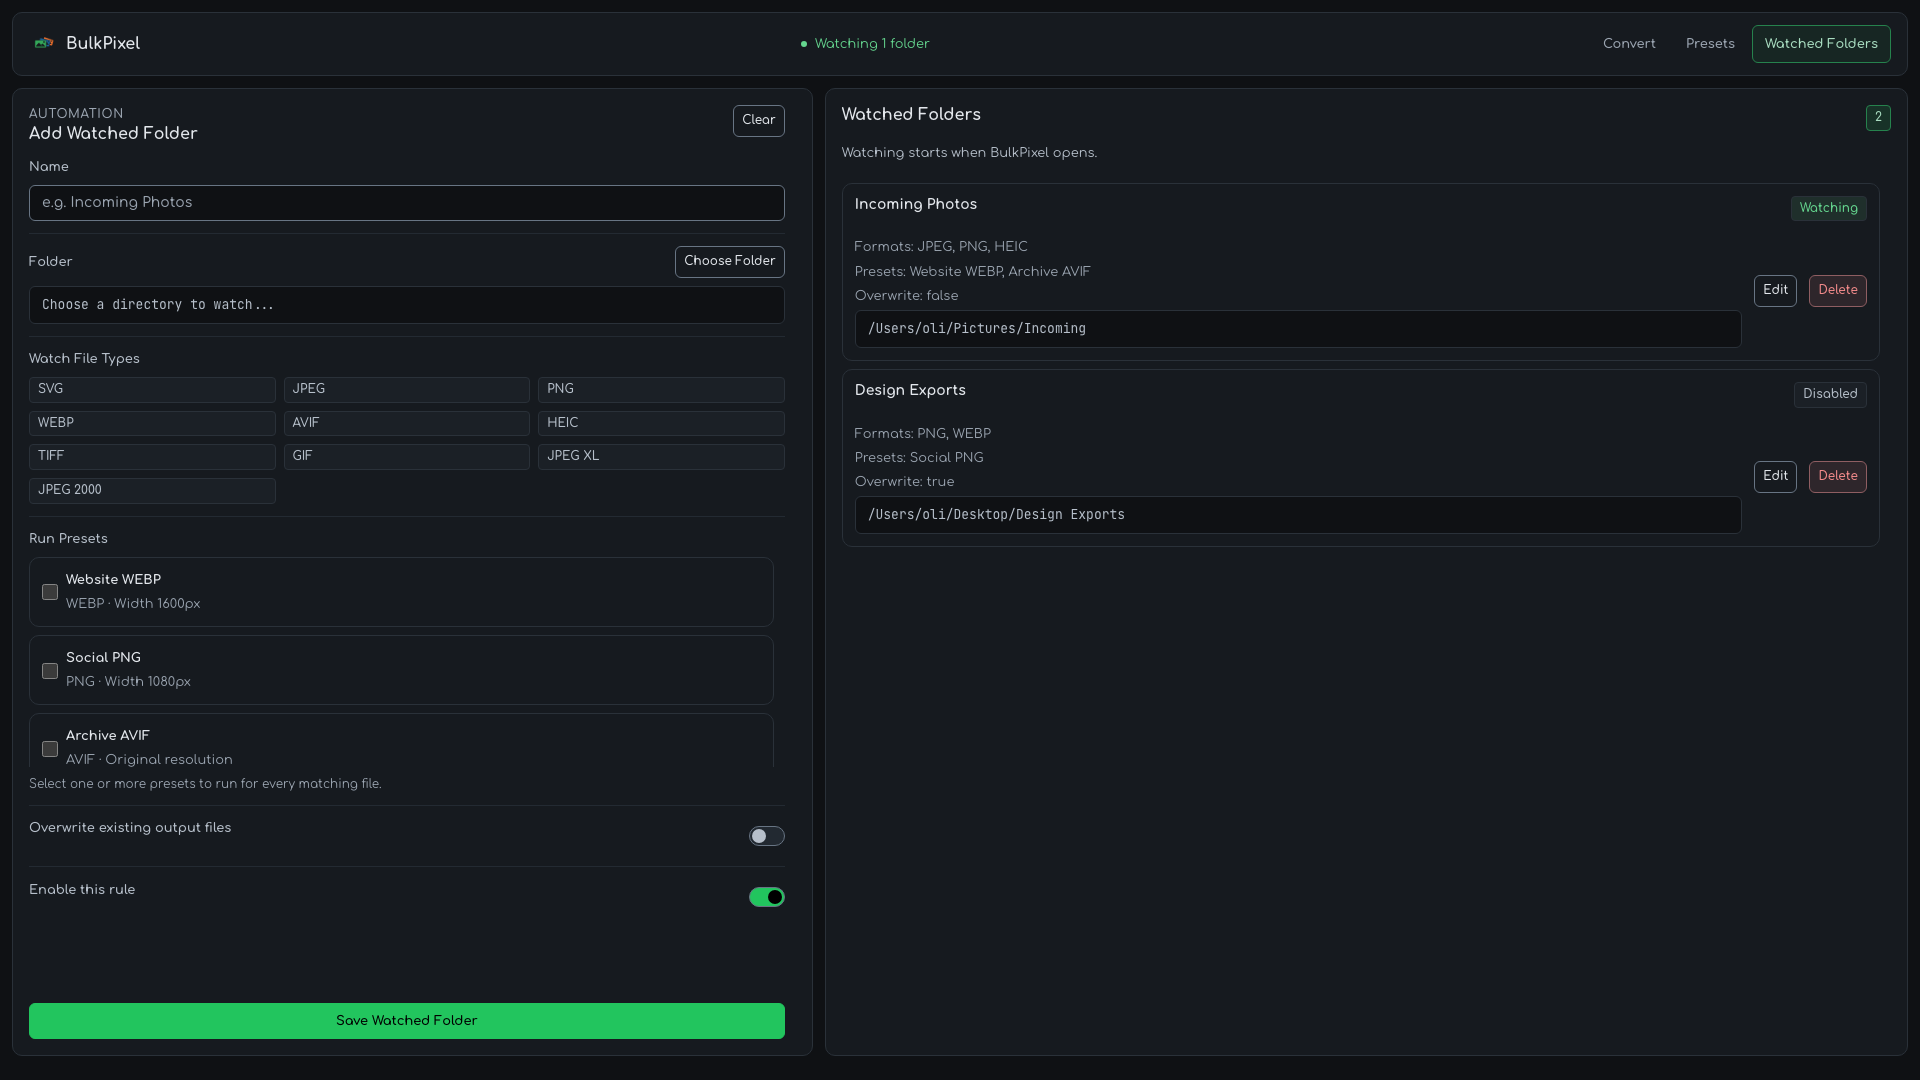
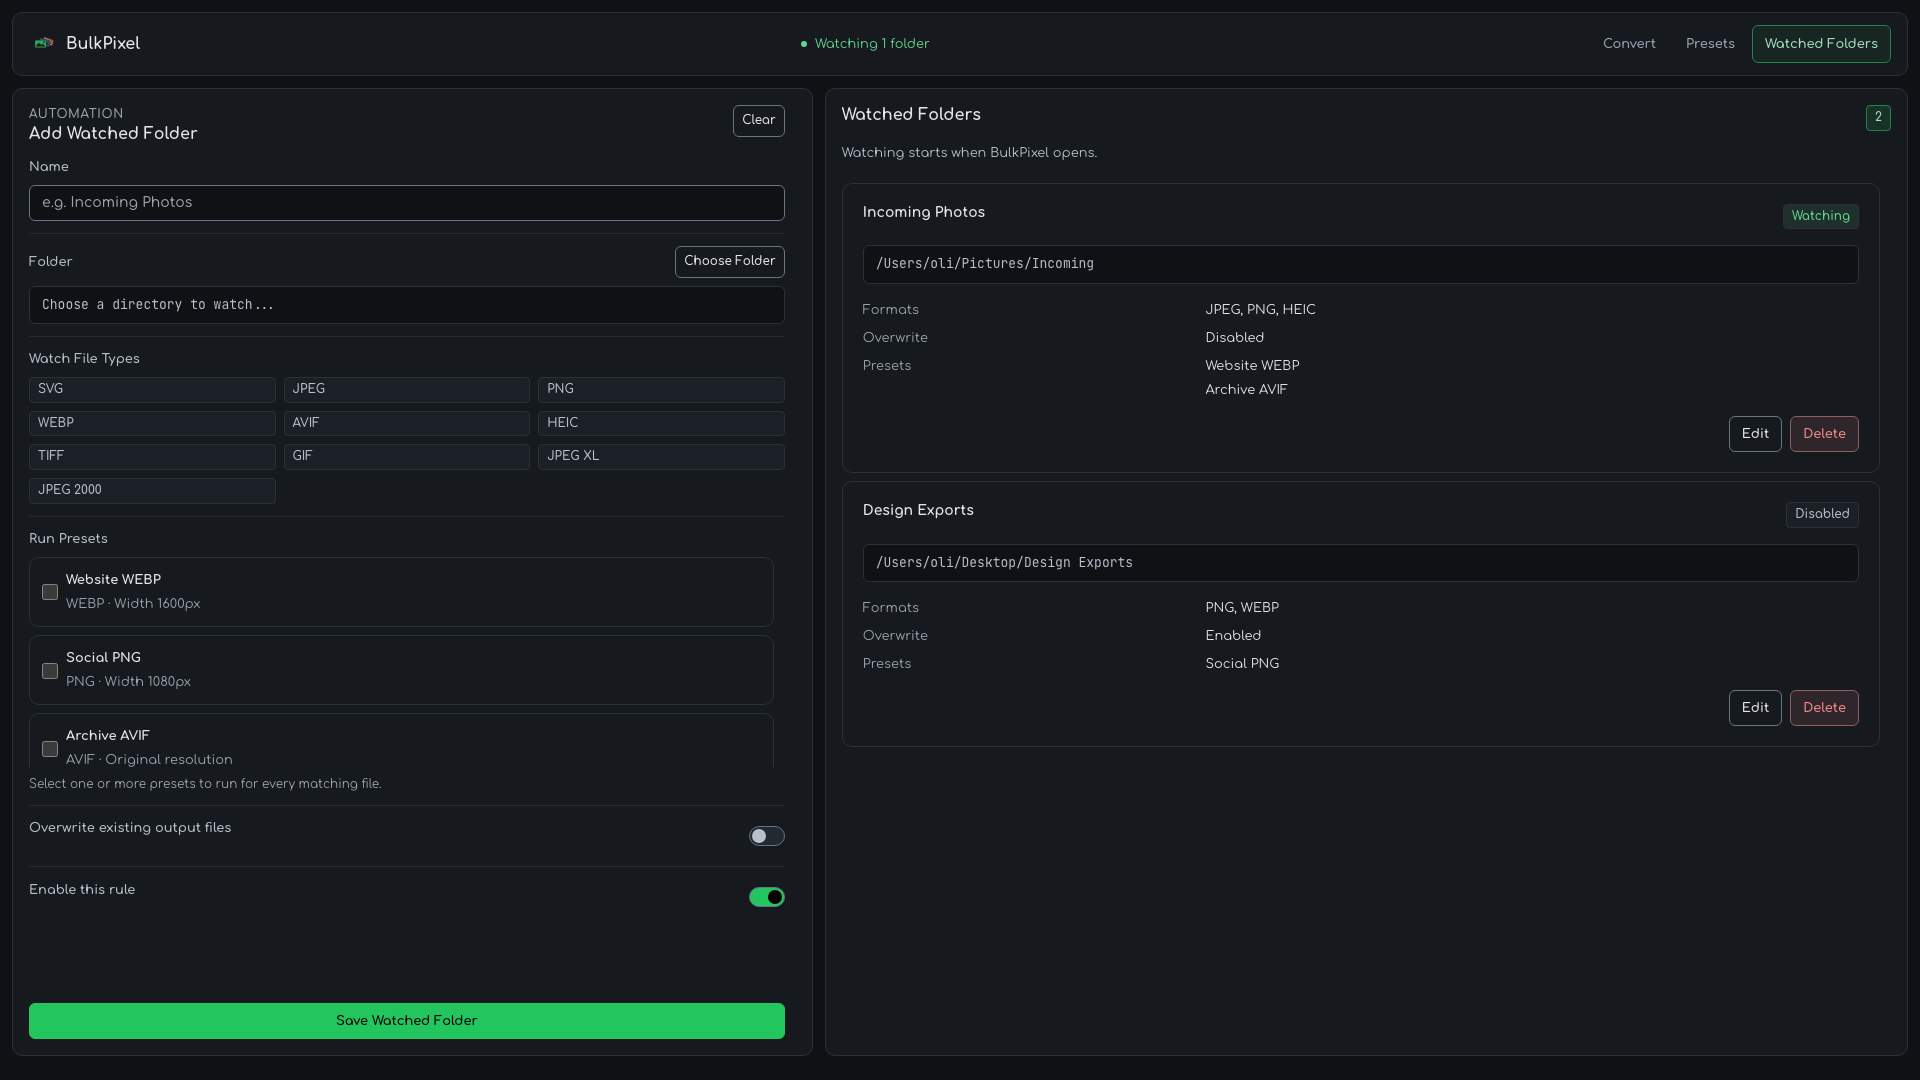
working on v3.1.3

diff --git a/src/ui.js b/src/ui.js
@@ -721,55 +721,74 @@ function buildMagicPresetOption(preset, selected, disabled) {
 
 function buildMagicDirectoryCard(directory, presets) {
     const card = document.createElement('article');
-    card.className = 'oj-panel oj-panel-compact preset-card magic-directory-card';
+    card.className = 'oj-panel oj-stack magic-directory-card';
 
-    const body = document.createElement('div');
-    body.className = 'preset-card-body';
-    const header = document.createElement('div');
-    header.className = 'magic-directory-header';
+    const header = document.createElement('header');
+    header.className = 'oj-toolbar magic-directory-header';
     const title = document.createElement('h4');
-    title.className = 'oj-heading-4';
+    title.id = `magic-directory-title-${directory.id}`;
+    title.className = 'oj-heading-4 magic-directory-title';
     title.textContent = directory.name;
+    card.setAttribute('aria-labelledby', title.id);
     const status = document.createElement('span');
-    status.className = `oj-badge${directory.enabled ? ' oj-badge-success' : ''}`;
+    status.className = `oj-badge magic-directory-status${directory.enabled ? ' oj-badge-success' : ''}`;
     status.textContent = directory.enabled ? 'Watching' : 'Disabled';
     header.append(title, status);
-    const formats = document.createElement('p');
-    formats.className = 'oj-small oj-muted';
-    formats.textContent = `Formats: ${directory.formats.map(format => format.toUpperCase()).join(', ')}`;
+
+    const path = document.createElement('span');
+    path.className = 'oj-path';
+    path.title = directory.path;
+    path.textContent = directory.path;
+
+    const metadata = document.createElement('dl');
+    metadata.className = 'oj-definition-list magic-directory-metadata';
+    const formatsLabel = document.createElement('dt');
+    formatsLabel.textContent = 'Formats';
+    const formats = document.createElement('dd');
+    formats.textContent = directory.formats.map(format => format.toUpperCase()).join(', ');
+
+    const overwriteLabel = document.createElement('dt');
+    overwriteLabel.textContent = 'Overwrite';
+    const overwrite = document.createElement('dd');
+    overwrite.textContent = Boolean(directory.overwrite) ? 'Enabled' : 'Disabled';
+
+    const presetsLabel = document.createElement('dt');
+    presetsLabel.textContent = 'Presets';
+    const presetsValue = document.createElement('dd');
     const selectedPresetNames = directory.presetIds
         .map(id => presets.find(preset => preset.id === id)?.name)
         .filter(Boolean);
-    const presetSummary = document.createElement('p');
-    presetSummary.className = 'oj-small oj-muted';
-    presetSummary.textContent = selectedPresetNames.length
-        ? `Presets: ${selectedPresetNames.join(', ')}`
-        : 'No presets selected';
-    const overwriteSetting = document.createElement('p');
-    overwriteSetting.className = 'oj-small oj-muted';
-    overwriteSetting.textContent = `Overwrite: ${Boolean(directory.overwrite)}`;
-    const path = document.createElement('p');
-    path.className = 'oj-path preset-card-path';
-    path.title = directory.path;
-    path.textContent = directory.path;
-    body.append(formats, presetSummary, overwriteSetting, path);
+    if (selectedPresetNames.length) {
+        const presetList = document.createElement('ul');
+        presetList.className = 'oj-list oj-stack magic-directory-preset-list';
+        for (const name of selectedPresetNames) {
+            const preset = document.createElement('li');
+            preset.textContent = name;
+            presetList.append(preset);
+        }
+        presetsValue.append(presetList);
+    } else {
+        presetsValue.textContent = 'No presets selected';
+    }
+    metadata.append(formatsLabel, formats, overwriteLabel, overwrite, presetsLabel, presetsValue);
 
-    const actions = document.createElement('div');
-    actions.className = 'oj-inline preset-card-actions';
+    const actions = document.createElement('footer');
+    actions.className = 'oj-cluster magic-directory-actions';
     actions.append(
-        buildMagicActionButton('edit', directory.id, 'Edit'),
-        buildMagicActionButton('delete', directory.id, 'Delete'),
+        buildMagicActionButton('edit', directory.id, 'Edit', directory.name),
+        buildMagicActionButton('delete', directory.id, 'Delete', directory.name),
     );
-    card.append(header, body, actions);
+    card.append(header, path, metadata, actions);
     return card;
 }
 
-function buildMagicActionButton(action, id, label) {
+function buildMagicActionButton(action, id, label, directoryName) {
     const button = document.createElement('button');
-    button.className = `oj-button oj-button-${action === 'delete' ? 'danger' : 'secondary'} oj-button-compact magic-action-button`;
+    button.className = `oj-button oj-button-${action === 'delete' ? 'danger' : 'secondary'} magic-action-button`;
     button.type = 'button';
     button.dataset.action = action;
     button.dataset.magicDirectoryId = String(id);
+    button.setAttribute('aria-label', `${label} ${directoryName}`);
     button.textContent = label;
     return button;
 }

diff --git a/src/styles.css b/src/styles.css
@@ -727,22 +727,40 @@ body {
     min-height: 180px;
 }
 
-.magic-directory-header {
-    grid-column: 1 / -1;
-    display: flex;
-    align-items: flex-start;
-    justify-content: space-between;
-    gap: var(--oj-space-2);
-    min-width: 0;
+.magic-directory-card {
+    container: magic-directory / inline-size;
 }
 
-.magic-directory-header h4 {
+.magic-directory-header {
+    --oj-gap: var(--oj-space-2);
+    align-items: flex-start;
+}
+
+.magic-directory-title {
+    flex: 1 1 16rem;
     min-width: 0;
     overflow-wrap: anywhere;
 }
 
-.magic-directory-header .oj-badge {
-    flex-shrink: 0;
+.magic-directory-status {
+    flex: 0 0 auto;
+    margin-inline-start: auto;
+}
+
+.magic-directory-preset-list {
+    --oj-gap: var(--oj-space-1);
+    min-width: 0;
+}
+
+.magic-directory-actions {
+    --oj-gap: var(--oj-space-2);
+    justify-content: flex-end;
+}
+
+@container magic-directory (max-width: 24rem) {
+    .magic-directory-metadata {
+        grid-template-columns: minmax(0, 1fr);
+    }
 }
 
 .magic-presets-field {
